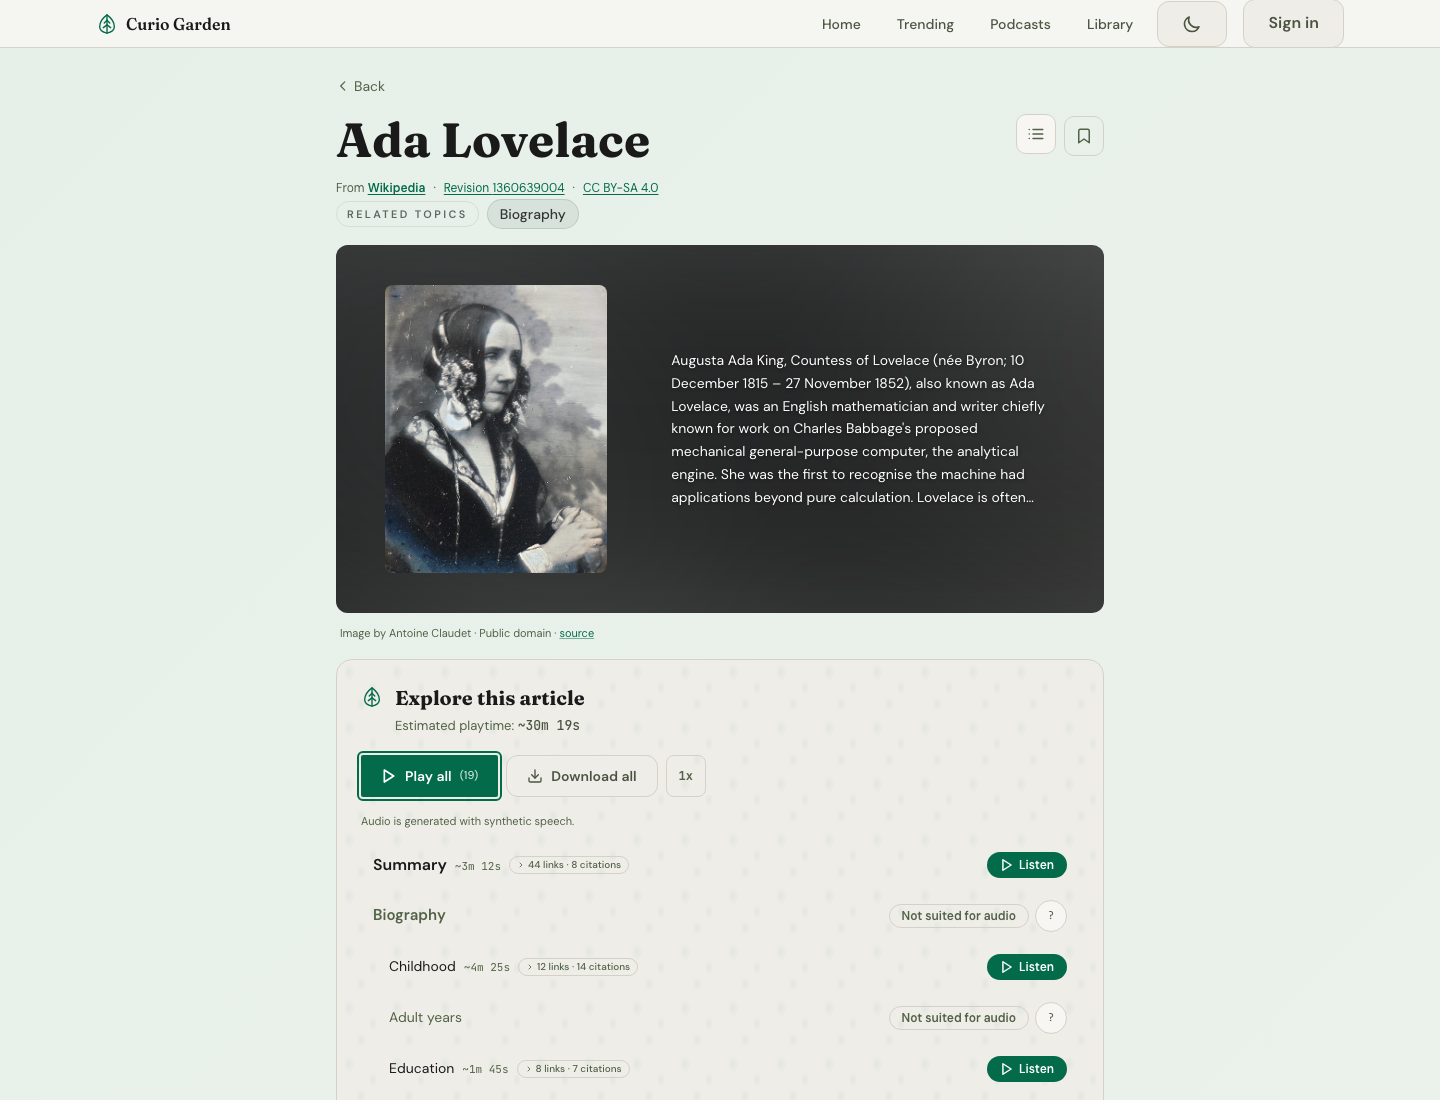
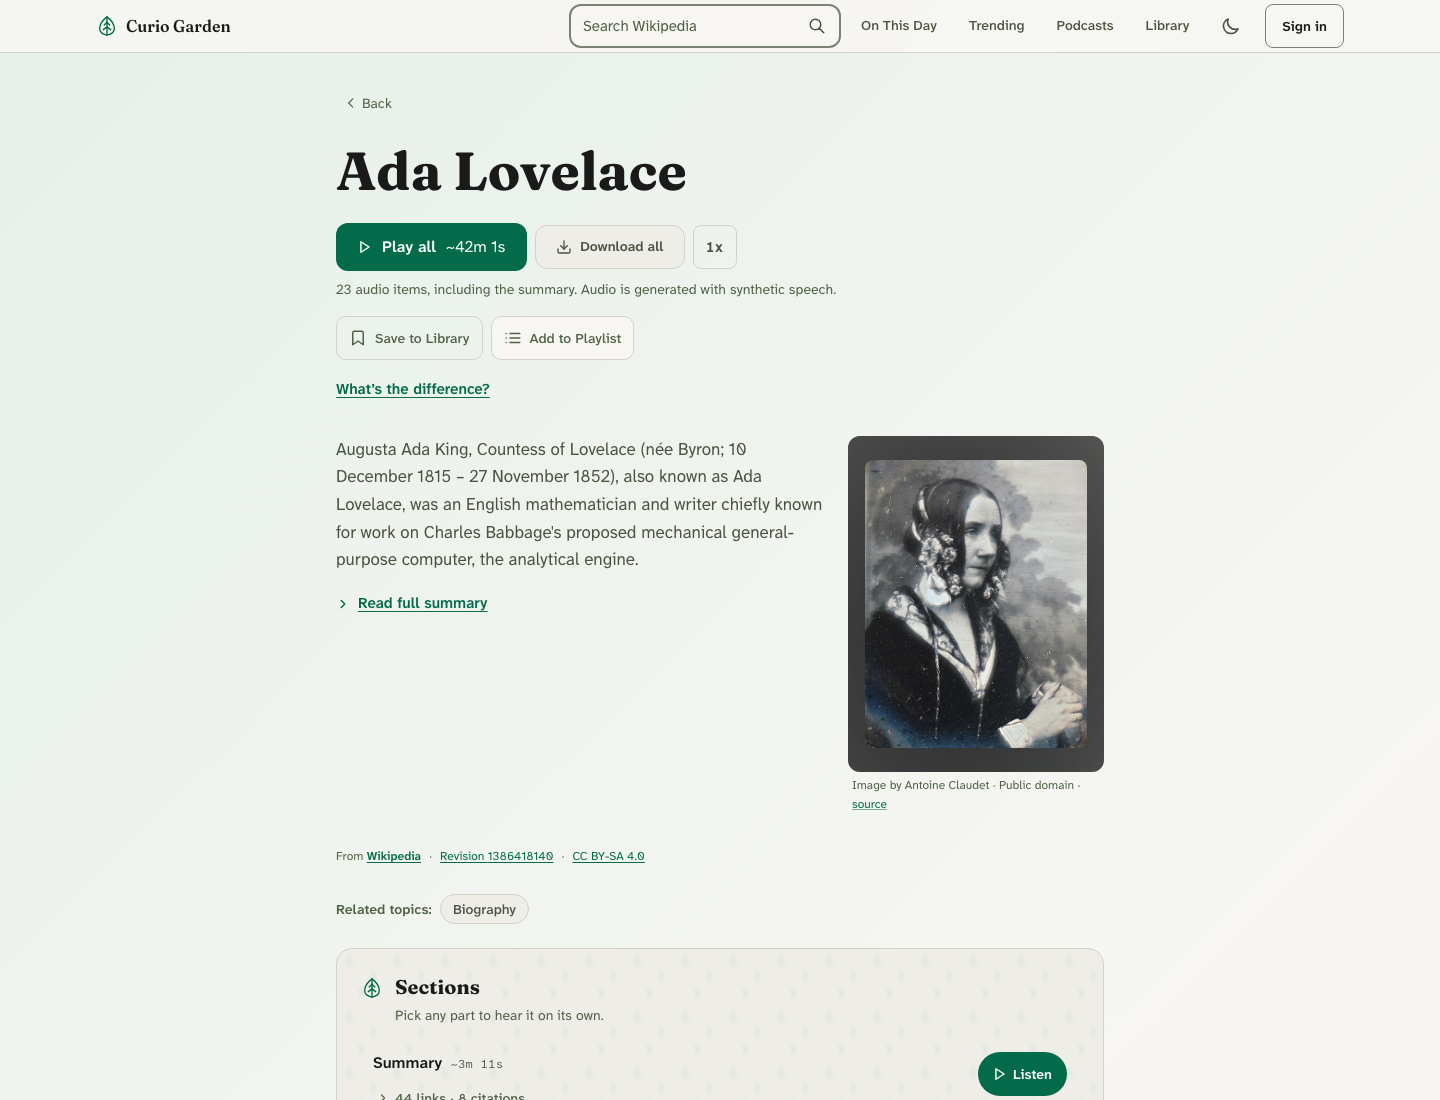
docs: refresh the home and article product tour

diff --git a/README.md b/README.md
@@ -52,7 +52,7 @@ Your Wikipedia listening library and personal podcast queue — an accessibility
 
 | Home and daily discovery                                                                                         | Article listening                                                                                                          | Wikimedia gallery                                                                                      |
 | ---------------------------------------------------------------------------------------------------------------- | -------------------------------------------------------------------------------------------------------------------------- | ------------------------------------------------------------------------------------------------------ |
-| ![Curio Garden home page with search, daily Wikipedia features, and recent listening cards](screenshot-home.png) | ![Ada Lovelace article page with section playback controls, a table of contents, and article text](screenshot-article.png) | ![Stonehenge Wikimedia gallery showing licensed image cards and captions](gallery-full-screenshot.png) |
+| ![Search-first home with recently opened articles, daily Wikipedia picks, and a listening sample](screenshot-home.png) | ![Ada Lovelace with Play all beneath the title, a short summary beside her portrait, and the first section’s Listen button](screenshot-article.png) | ![Stonehenge Wikimedia gallery showing licensed image cards and captions](gallery-full-screenshot.png) |
 
 The live product stays focused on listening. The [/about](https://curiogarden.org/about) page gives technical reviewers a shorter account of the motivation, architecture, provenance model, and major engineering tradeoffs.
 
